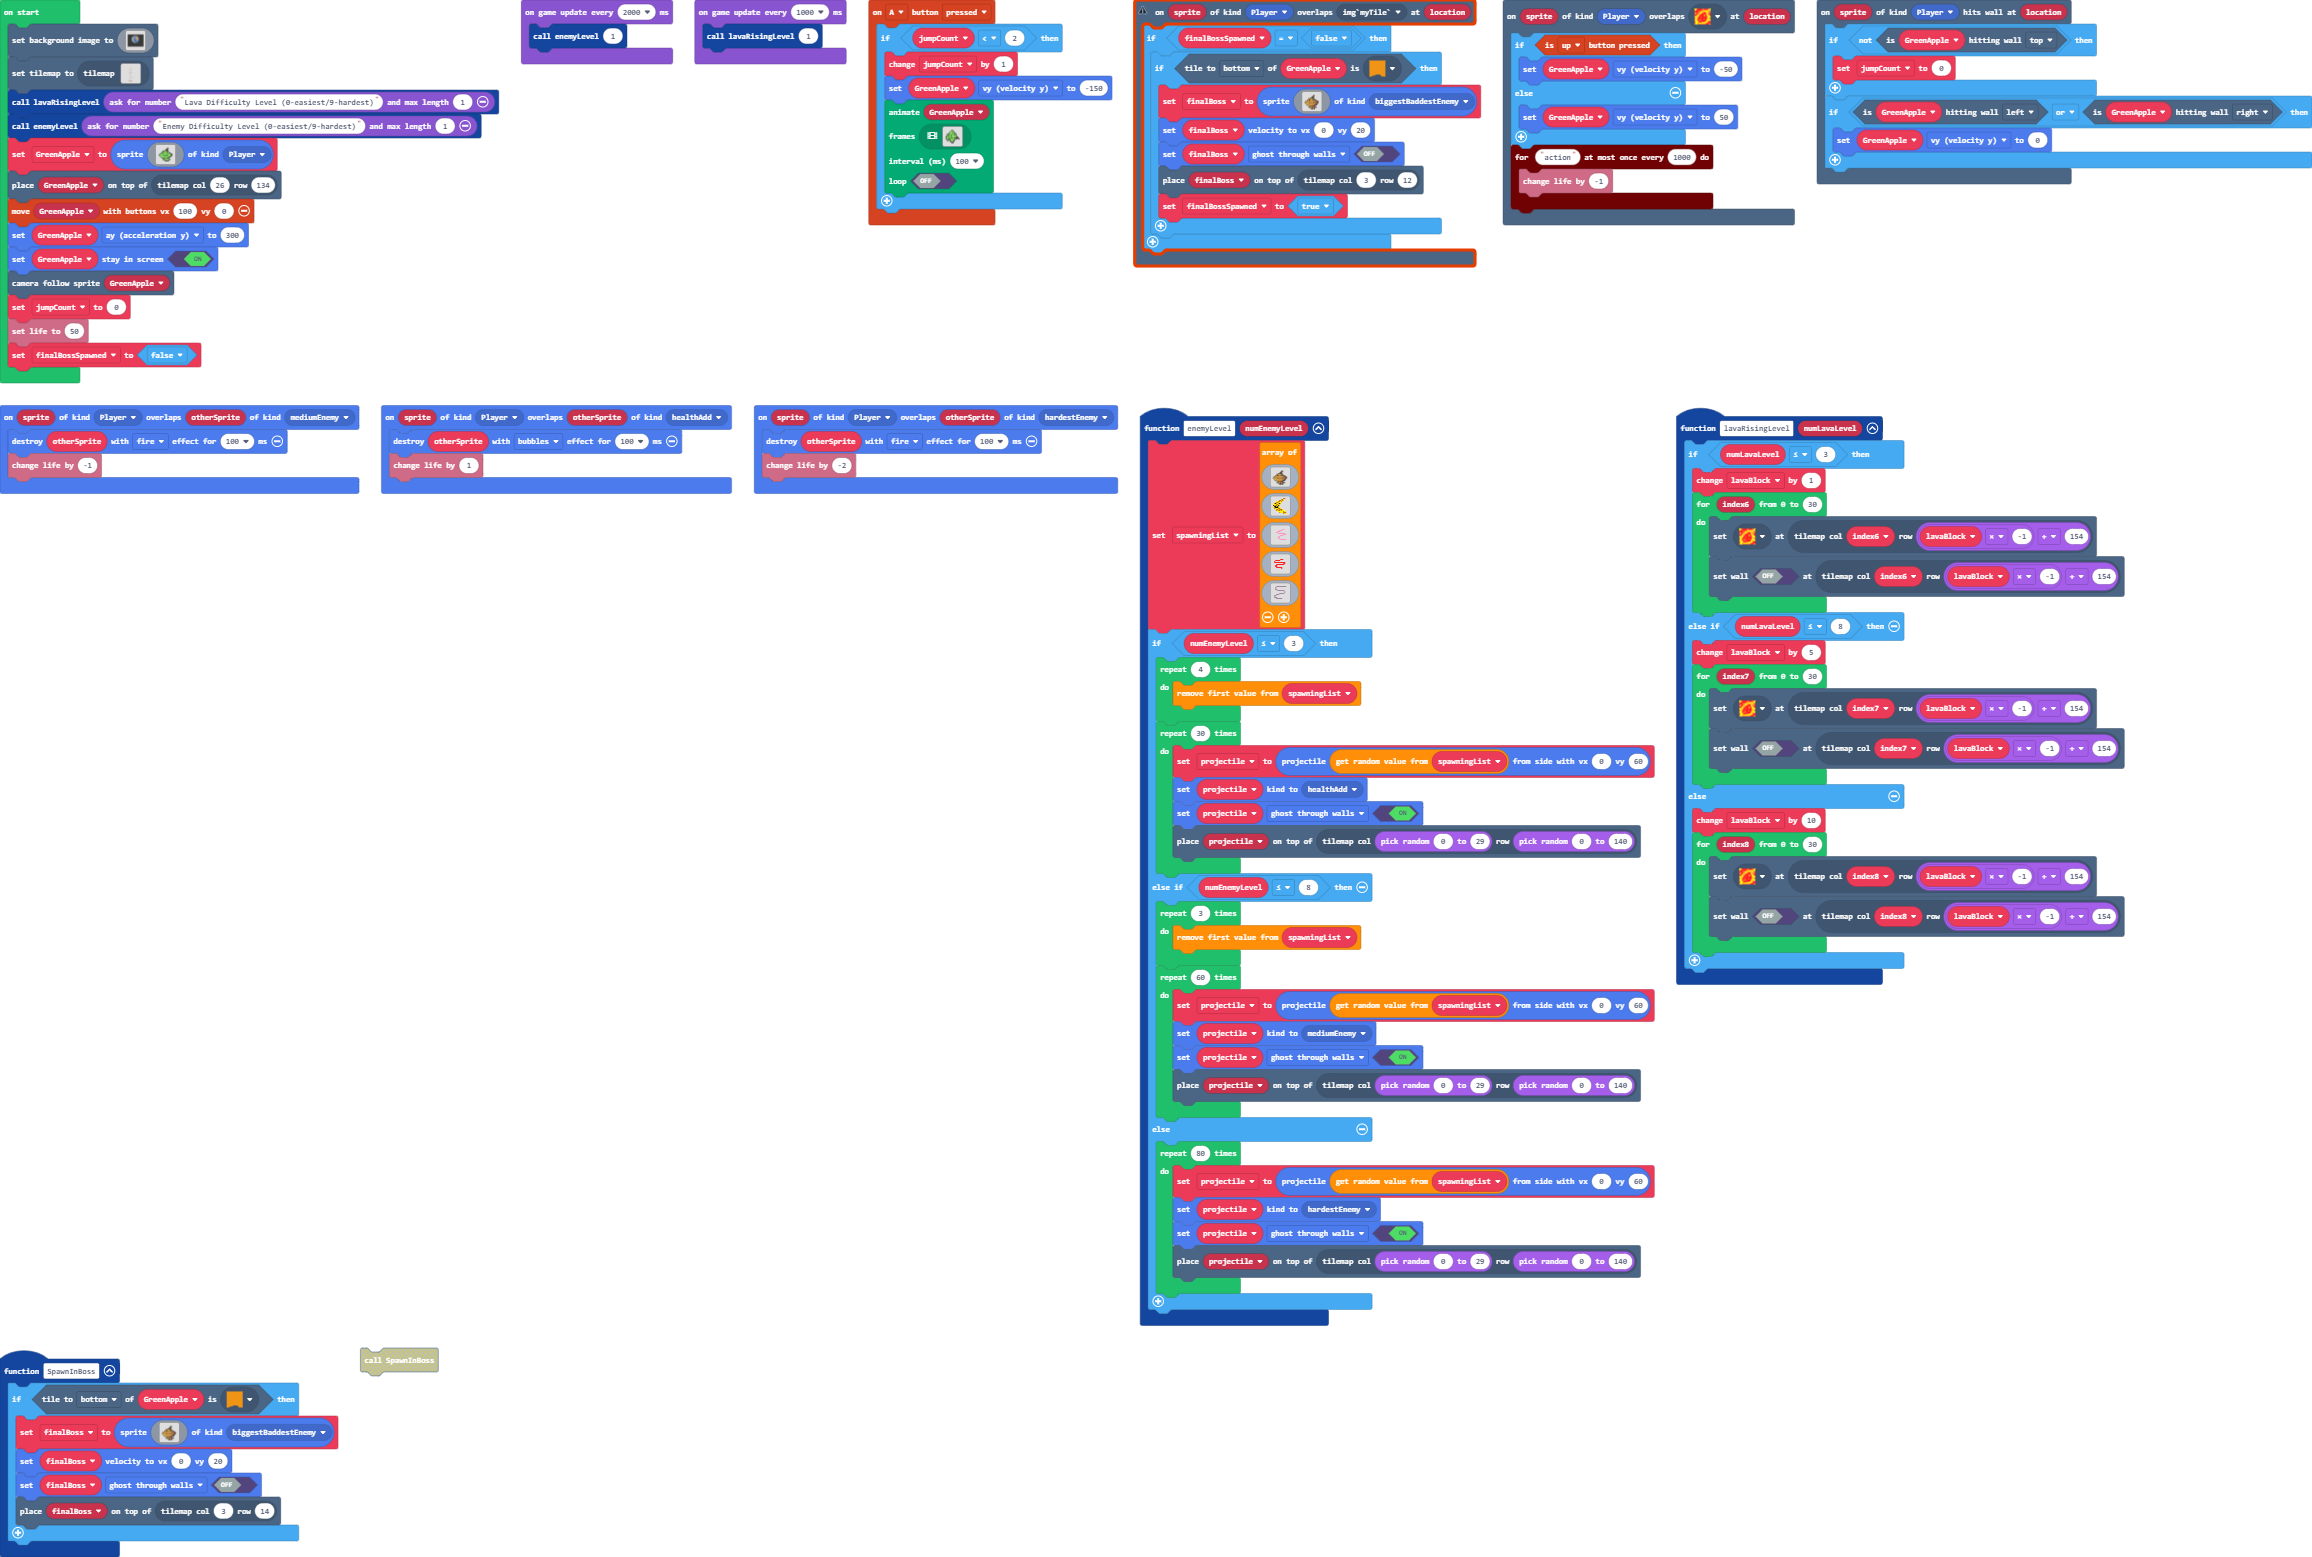
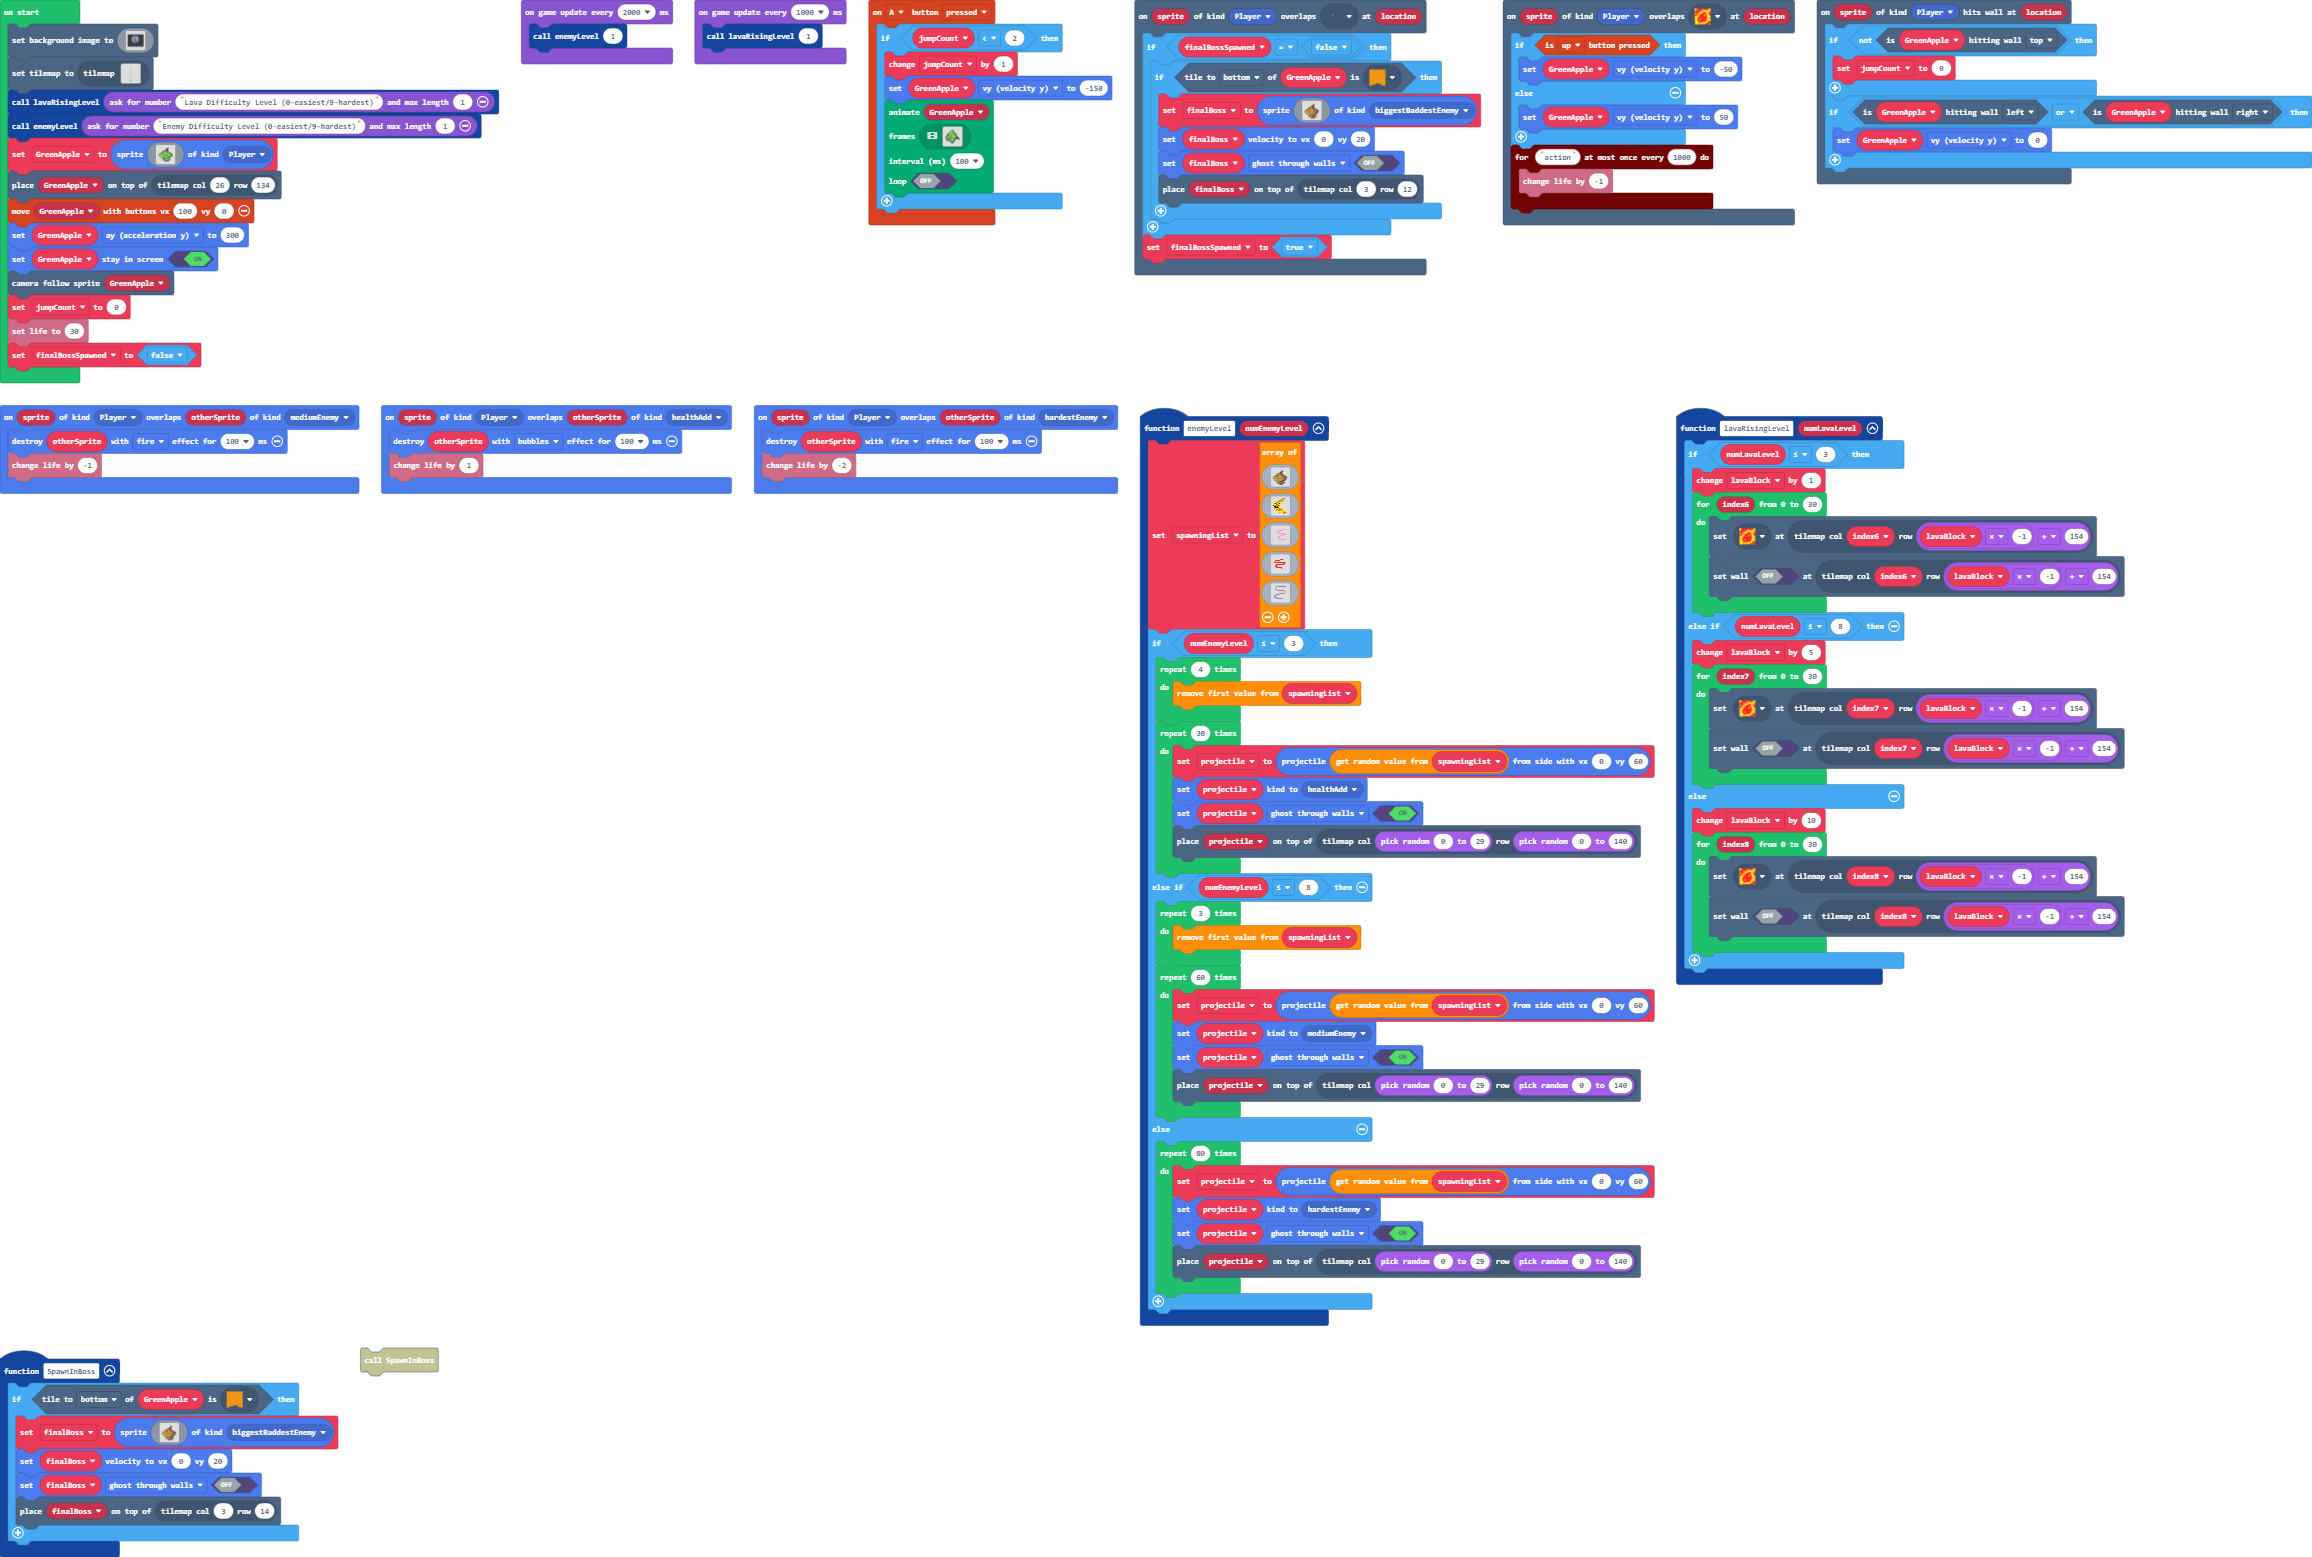
Update main.blocks, main.ts, tilemap.g.jres, tilemap.g.ts

Changed region(s): [[0.4671, 0.0, 0.654, 0.185]]

diff --git a/tilemap.g.ts b/tilemap.g.ts
@@ -2,11 +2,13 @@
 namespace myTiles {
     //% fixedInstance jres blockIdentity=images._tile
     export const transparency16 = image.ofBuffer(hex``);
+    //% fixedInstance jres blockIdentity=images._tile
+    export const tile1 = image.ofBuffer(hex``);
 
     helpers._registerFactory("tilemap", function(name: string) {
         switch(helpers.stringTrim(name)) {
             case "level1":
[2 lines of base64/hex data omitted]
 ..............................
 ..............................
 ..............................
@@ -147,7 +149,7 @@ namespace myTiles {
 ..............................
 ..............................
 ..............................
-`, [myTiles.transparency16,sprites.dungeon.hazardLava0,sprites.builtin.oceanDepths0,sprites.builtin.oceanDepths9,sprites.builtin.oceanDepths7,sprites.builtin.oceanSand14,sprites.builtin.oceanDepths4], TileScale.Sixteen);
+`, [myTiles.transparency16,sprites.dungeon.hazardLava0,sprites.builtin.oceanDepths0,sprites.builtin.oceanDepths9,sprites.builtin.oceanDepths7,sprites.builtin.oceanSand14,sprites.builtin.oceanDepths4,myTiles.tile1], TileScale.Sixteen);
         }
         return null;
     })
@@ -155,6 +157,8 @@ namespace myTiles {
     helpers._registerFactory("tile", function(name: string) {
         switch(helpers.stringTrim(name)) {
             case "transparency16":return transparency16;
+            case "myTile":
+            case "tile1":return tile1;
         }
         return null;
     })

diff --git a/main.ts b/main.ts
@@ -100,6 +100,17 @@ scene.onHitWall(SpriteKind.Player, function (sprite, location) {
         GreenApple.vy = 0
     }
 })
+scene.onOverlapTile(SpriteKind.Player, assets.tile`myTile`, function (sprite, location) {
+    if (finalBossSpawned == false) {
+        if (GreenApple.tileKindAt(TileDirection.Bottom, sprites.builtin.oceanSand14)) {
+            finalBoss = sprites.create(assets.image`archnemesis`, SpriteKind.biggestBaddestEnemy)
+            finalBoss.setVelocity(0, 20)
+            finalBoss.setFlag(SpriteFlag.GhostThroughWalls, false)
+            tiles.placeOnTile(finalBoss, tiles.getTileLocation(3, 12))
+        }
+    }
+    finalBossSpawned = true
+})
 controller.A.onEvent(ControllerButtonEvent.Pressed, function () {
     if (jumpCount < 2) {
         jumpCount += 1
@@ -211,17 +222,6 @@ scene.onOverlapTile(SpriteKind.Player, sprites.dungeon.hazardLava0, function (sp
     timer.throttle("action", 1000, function () {
         info.changeLifeBy(-1)
     })
-})
-scene.onOverlapTile(SpriteKind.Player, img`myTile`, function (sprite, location) {
-    if (finalBossSpawned == false) {
-        if (GreenApple.tileKindAt(TileDirection.Bottom, sprites.builtin.oceanSand14)) {
-            finalBoss = sprites.create(assets.image`archnemesis`, SpriteKind.biggestBaddestEnemy)
-            finalBoss.setVelocity(0, 20)
-            finalBoss.setFlag(SpriteFlag.GhostThroughWalls, false)
-            tiles.placeOnTile(finalBoss, tiles.getTileLocation(3, 12))
-            finalBossSpawned = true
-        }
-    }
 })
 function SpawnInBoss () {
     if (GreenApple.tileKindAt(TileDirection.Bottom, sprites.builtin.oceanSand14)) {
@@ -403,7 +403,7 @@ GreenApple.ay = 300
 GreenApple.setStayInScreen(true)
 scene.cameraFollowSprite(GreenApple)
 jumpCount = 0
-info.setLife(50)
+info.setLife(30)
 finalBossSpawned = false
 game.onUpdateInterval(2000, function () {
     enemyLevel(1)
